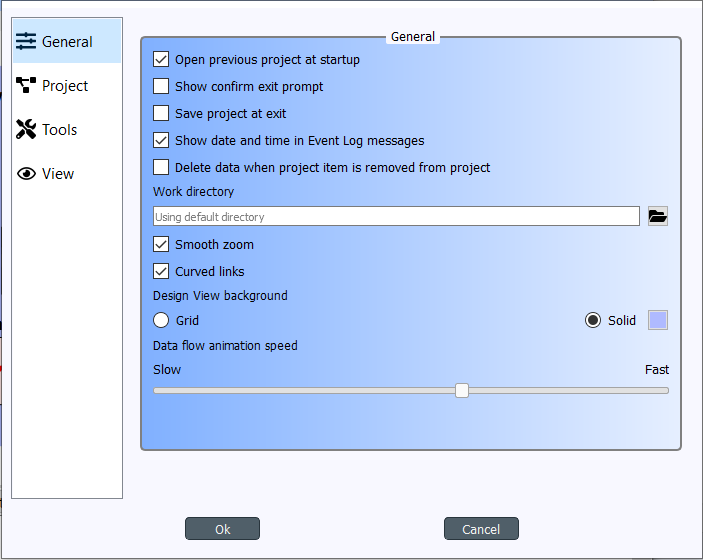
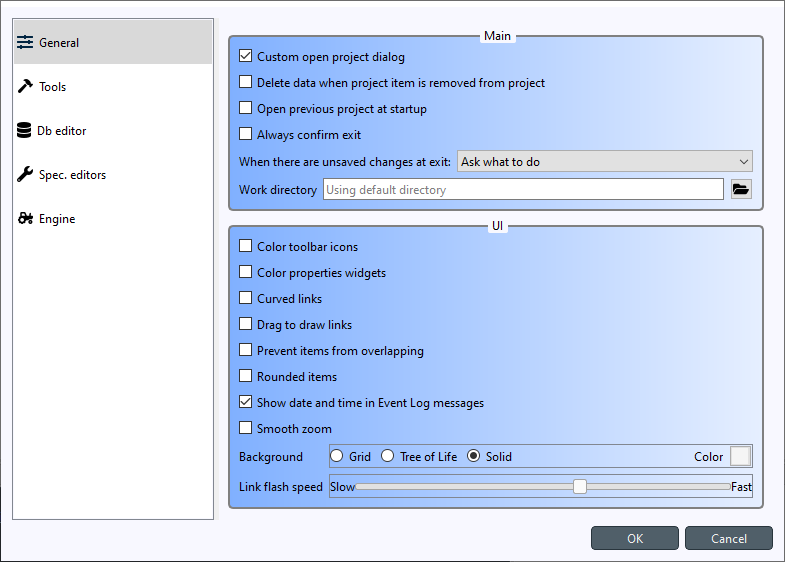
Bring Settings documentation up-to-date
Re #1781

Changed region(s): [[0.0, 0.0, 1.0, 1.0]]

diff --git a/spinetoolbox/ui/settings.py b/spinetoolbox/ui/settings.py
@@ -992,7 +992,7 @@ class Ui_SettingsForm(object):
 #if QT_CONFIG(tooltip)
         self.toolButton_browse_work.setToolTip(QCoreApplication.translate("SettingsForm", u"<html><head/><body><p>Pick Work directory with file browser</p></body></html>", None))
 #endif // QT_CONFIG(tooltip)
-        self.label_2.setText(QCoreApplication.translate("SettingsForm", u"When there are unsaved changes:", None))
+        self.label_2.setText(QCoreApplication.translate("SettingsForm", u"When there are unsaved changes at exit:", None))
         self.project_save_options_combo_box.setItemText(0, QCoreApplication.translate("SettingsForm", u"Ask what to do", None))
         self.project_save_options_combo_box.setItemText(1, QCoreApplication.translate("SettingsForm", u"Automatically save project", None))
 

diff --git a/docs/source/settings.rst b/docs/source/settings.rst
@@ -7,11 +7,10 @@
 Settings
 ********
 
-.. note:: The images and some of the text are outdated. See tooltips in the app for up-to-date information.
-
 You can open Spine Toolbox settings from the main window menu `File->Settings...`, or by
-pressing **F1**. Settings are categorized into four tabs; *General*, *Project*,
-*Tools*, and *View*. In addition to application settings, each Project item has user adjustable
+pressing **Ctrl+,**. Settings are categorized into five tabs;
+*General*, *Tools*, *Db editor*, *Spec. editors* and *Engine*.
+In addition to application settings, each Project item has user adjustable
 properties (See :ref:`Project Items`)
 
 .. contents::
@@ -25,100 +24,151 @@ General settings
 
 The General tab contains the general application settings.
 
+Settings in the **Main** group:
+
+- **Custom open project dialog** If checked, the application uses a special-purpose dialog
+  when opening a project. If left unchecked, the operating system's default dialog is used.
+
+- **Delete data when project item is removed from project** Check this box to delete project item's data
+  when a project item is removed from project. This means that the *project item directory* and its
+  contents will be deleted from your hard drive. You can find the project item directories from the
+  ``<proj_dir>/.spinetoolbox/items/`` directory, where ``<proj_dir>`` is your current project directory.
+
 - **Open previous project at startup** If checked, application opens the project at startup that was
   open the last time the application was shut down. If left unchecked, application starts without a
   project open.
 
-- **Show confirm exit prompt** If checked, confirm exit prompt is shown. If unchecked, application
-  exits without prompt.
+- **Always confirm exit** If checked, confirm exit prompt is shown always. If unchecked, application
+  exits without prompt when there are no unsaved changes.
 
-- **Save project at exit** Unchecked: Does not save project and does not show message box. Partially
-  checked: Shows message box (default). Checked: Saves project and does not show message box.
-
-- **Show date and time in Event Log messages** If checked, every Event Log message is prepended with
-  a date and time 'tag'.
-
-- **Delete data when project item is removed from project** Check this box to delete project item's data
-  when a project item is removed from project. This means, that the *project item directory* and its
-  contents will be deleted from your hard drive. You can find the project item directories from the
-  ``<proj_dir>/.spinetoolbox/items/`` directory, where ``<proj_dir>`` is your current project directory.
+- **When there are unsaved changes at exit** The combo box chooses what to do with unsaved changes
+  when the application exits.
 
 - **Work directory** Directory where processing the Tool takes place. Default place (if left empty) is
   the ``/work`` subdirectory of Spine Toolbox install directory. You can change this directory.
   Make sure to clean up the directory every now and then.
 
+Settings in the **UI** group:
+
+- **Color toolbar icons** Check this box to give some color to the otherwise black toolbar icons.
+
+- **Color properties widgets** Check this box to make the background of Project item properties
+  more colorful.
+
+- **Curved links** Controls the look of the arrows on Design View.
+
+- **Drag to draw links** When checked, the mouse button needs to be pressed while
+  drawing links between project items. If unchecked, single clicks at link source and destination
+  items suffices.
+
+- **Prevent items from overlapping** When checked, other project items can be pushed away when
+  moving an item around the Design view. If left unchecked, items can be piled on top of each other.
+
+- **Rounded items** Check this box to round the corners of otherwise rectangular project items.
+
+- **Show date and time in Event Log messages** If checked, every Event Log message is prepended with
+  a date and time 'tag'.
+
 - **Smooth zoom** Controls the way zooming (by using the mouse wheel) behaves in Design View and in
   Spine database editor. Controls if the zoom in/out is continuous or discrete. On older computers,
-  smooth zoom is not recommended (because it may be slower).
+  smooth zoom is not recommended because it may be slower.
 
-- **Curved links** Controls the look of the arrows (connections) on Design View.
+- **Background** Has some pattern options for the background of the Design view.
+  Clicking on the square next to 'Color' let's you choose the pattern's color.
 
-- **Design View background** Choosing grid shows a black grid as the Design View background. Choosing
-  Solid and then clicking on the square next to it let's you choose the background color.
-
-- **Data flow animation speed** This slider controls the speed of the 'arrow' animation on Design
-  View when execution is about to start.
-
-Project settings
-----------------
-
-.. image:: img/settings_project.png
-   :align: center
-
-These settings affect the project that is currently open. To save the project to a new directory
-use the ``File->Save project as...`` menu item. Or you can simply copy the project directory anywhere
-on your file system.
-
-- **Name** The default name for new projects is the name of the project directory. You can
-  change the project name here.
-
-- **Description** You can type a description for your project here.
+- **Link flash speed** This slider controls the speed of the link animation on Design
+  View when execution is ongoing.
 
 Tools settings
 --------------
 
-.. image:: img/settings_tools.png
+The Tool settings tab contains settings for external tools.
+See :ref:`Setting up External Tools` for more information and examples.
+
+Database editor settings
+------------------------
+
+.. image:: img/settings_db_editor.png
    :align: center
 
-- **GAMS executable** Path to GAMS executable you wish to use to execute *GdxExporter* project items and
-  *Tool* project items that use a GAMS Tool specification. See :ref:`Setting up External Tools`.
+This tab contains settings for the Database editor.
+The same settings can be accessed directly from the Database editor itself.
 
-- **Julia executable** Path to Julia executable you wish to use to execute *Tool* project items
-  that use a Julia Tool specification. See :ref:`Setting up External Tools`.
-
-- **Julia home project** Set the Julia home project here.
-
-- **Use embedded Julia Console** Check this box to execute *Tool* project items that use a Julia
-  Tool specification in the built-in Julia Console. If you leave this un-checked, Julia Tool
-  specifications will be executed as in the shell. I.e on Windows this would be the equivalent to
-  running command ``julia.exe example_script.jl`` in the command prompt. If you decide to use the
-  embedded Julia Console, the ``example_script.jl`` is *included* into the console and executed there.
-
-- **Python interpreter** Path to Python executable you wish to use to execute *Tool* project items
-  that use a Python Tool specification. See :ref:`Setting up External Tools`.
-
-- **Use embedded Python Console** Check this box to execute Python Tool specifications in the
-  embedded Python Console. If you un-check this box, Python Tool specifications will be executed as
-  in the shell. I.e on Windows this would be the equivalent to running command
-  ``python.exe script.py`` in the command prompt. If you decide to use the embedded Python Console,
-  ``script.py`` is executed there instead.
-
-View settings
--------------
-
-.. image:: img/settings_view.png
-   :align: center
-
-- **Commit session when view is closed** This checkbox controls what happens when you close the Spine
+- **Commit session before closing** This checkbox controls what happens when you close a
   database editor which has uncommitted changes. When this is unchecked, all changes are discarded without
   notice. When this is partially checked (default), a message box warning you about uncommitted
   changes is shown. When this is checked, a commit message box is shown immediately without first
   showing the message box.
 
-- **Sticky selection in object tree** Controls how selecting items in Spine database editor's Object tree
-  using the left mouse button works. If unchecked, single selection is enabled and pressing the
-  Ctrl-button down enables multiple selection. If checked, Multiple selection is enabled and pressing
-  the Ctrl-button down enables single selection.
+- **Show undo notifications** Checking this will show undo notification boxes in the editor
+  every time something undoable happens. Unchecking hides the notifications.
+
+- **Sticky selection in entity trees** Controls how selecting items in Spine database editor's
+  Object and Relationships trees using the left mouse button works.
+  If checked, multiple selection is enabled and pressing **Ctrl** enables single selection.
+  If unchecked, single selection is enabled and pressing **Ctrl** enables multiple selection.
+
+- **Move relationships along with objects in Entity graph** This controls how relationship nodes
+  behave on the Graph view when object nodes are moved around.
+  If checked, connected relationship nodes move along with the object node.
+  If unchecked, connected relationship nodes remain where they are when objects nodes are moved.
+
+- **Smooth Entity graph zoom** Checking this enables smooth zoom on the Graph view.
+
+- **Smooth Entity graph rotation** Checking this enables smooth rotation on the Graph view.
+
+- **Auto-expand objects by default in Entity graph** This checkbox controls which relationship
+  nodes to show on the Graph view.
+  If checked, all relationships that contain a visible object node are included.
+  If unchecked, relationship nodes are included only if all their objects are show on the Graph view.
+
+- **Merge databases by default in Entity graph** If checked, Graph view will combine all databases
+  that are open on the same table into a single graph if they contains common object nodes.
+  If unchecked, a separate graph will be drawn for each database.
+
+Specification editor settings
+-----------------------------
+
+.. image:: img/settings_specification_editors.png
+   :align: center
+
+The Spec. editor tab contains common settings for all specification editors.
+
+
+- **Save specification before closing** If checked, specification editors will save the specification
+  automatically at exit.
+  If partially checked, the editors will prompt what to do explicitly.
+  If unchecked, no prompts will be shown and all changes will be lost at exit.
+
+- **Show undo notifications** Checking this will show undo notification boxes in the editor
+  every time something undoable happens. Unchecking hides the notifications.
+
+Engine settings
+---------------
+
+.. image:: img/settings_engine.png
+   :align: center
+
+The Engine settings tab contains settings for Spine Engine.
+
+- **Maximum number of concurrent processes** This sets a limit on how many concurrent processes
+  the Engine can launch. *Unlimited* means that there is no upper limit.
+  With no limits to concurrent processes the execution never stalls waiting for processes to finish.
+  It may, however, consume all system's resources.
+  *Limit to available CPU cores* sets the upper limit to the number of cores on the system.
+  Finally, exact upper limit can be set by the *User defined limit* spin box.
+
+- **Maximum number of open consoles** This sets a limit on how many concurrent Python or Julia
+  consoles (Basic and Jupyter) there can be running at the same time.
+  Note, that this is a separate limit from the number of concurrent processes above.
+  *Unlimited* means that there is no upper limit.
+  With no limits to open consoles the execution never stalls waiting for console to become free.
+  It may, however, consume all system's resources.
+  *Limit to available CPU cores* sets the upper limit to the number of cores on the system.
+  Finally, exact upper limit can be set by the *User defined limit* spin box.
+
+- **Remote execution** This group is for executing workflows on a remote Spine engine.
+  You can find instructions on how to set it up in :ref:`Spine Engine Server`
 
 Application preferences
 -----------------------
@@ -131,6 +181,3 @@ Application settings and preferences (see above) are saved to a location that de
 operating system. On Windows, they are stored into registry key
 ``HKEY_CURRENT_USER\Software\SpineProject\Spine Toolbox``. It is safe to delete this key if you
 want to reset Spine Toolbox to factory defaults.
-
-.. note::
-   If you are looking for information on project item properties, see :ref:`Project Items`.

diff --git a/docs/source/setting_up.rst b/docs/source/setting_up.rst
@@ -103,14 +103,16 @@ Julia, you either don't have a Julia installation in your PATH, or the Julia pat
 
 GAMS
 ****
-Executing Gams Tools and the GDXExporter Project Item requires an installation of Gams on your system.
+Executing Gams Tools or needing to use the GDX file format requires an installation of Gams on your system.
 You can download Gams from `<https://www.gams.com/download/>`_.
 
 .. note:: You do not need to own a Gams license as the demo version works just as well.
 
-As with Julia, the default Gams is the Gams in your PATH environment variable. You can see the one that is currently
-in use from the `Tools` page in `File->Settings...`. The placeholder text shows the Gams in your PATH if found.
+.. important:: The bitness (32 or 64bit) of Gams has to match the bitness of the Python interpreter.
+
+The default Gams is the Gams defined under ``gams.location`` in Windows registry or in your PATH environment variable.
+You can see the one that is currently in use from the `Tools` page in `File->Settings...`.
+The placeholder text shows the default Gams if found.
 You can also override the default Gams by setting some other gams.exe path to the line edit
 (e.g. `C:\\GAMS\\win64\\28.2\\gams.exe`).
 
-.. important:: The bitness (32 or 64bit) of Gams has to match the bitness of the Python interpreter.
